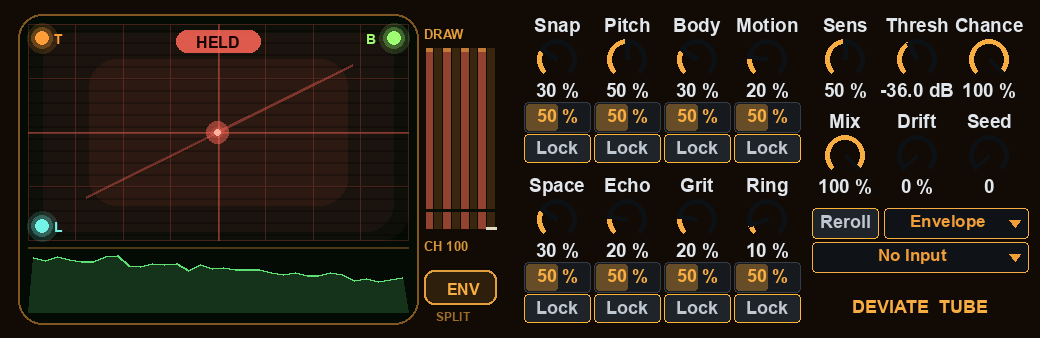
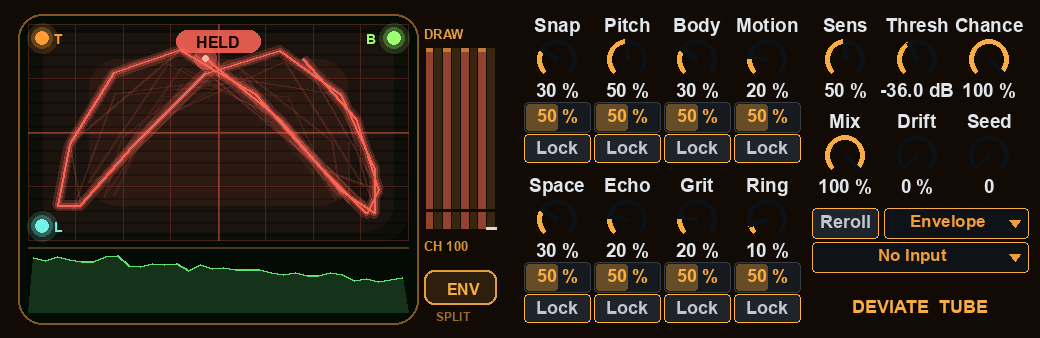
fix(deviate): tube review findings

Changed region(s): [[0.0308, 0.1183, 0.3692, 0.6509]]

diff --git a/src/deviate_face_tube.js b/src/deviate_face_tube.js
@@ -15,7 +15,10 @@ var TB_BAR = { x: 207, pitch: 4.4, w: 3.4, y: 20, h: 90 };
 var PAINT_REGIONS = [[0, 0, 246, 161]];
 var hitZones = [[0, 0, 246, 161]];
 
-var tbFlash = 0;
+var tbFlash = 0; // flash level set at tbFlashAt (ms); read through tbFlashNow(), which decays on the clock, not on telemetry frames
+var tbFlashAt = 0;
+var tbClock = null; // pinned clock (ms) for previews and tests; null = Date.now()
+var TB_FLASH_MS = 300;
 var tbHist = []; // previous frames' points (flat [x, y, ...], normalized -1..1), oldest first, at most 5
 var TB_PERSIST = 5;
 
@@ -52,15 +55,28 @@ function tbPush() {
     if (tbHist.length > TB_PERSIST) tbHist.shift();
 }
 
+function tbNow() {
+    return tbClock === null ? Date.now() : tbClock;
+}
+
+function tbSetFlash(v) {
+    tbFlash = v; tbFlashAt = tbNow();
+}
+
+/** the flash level now: linear fade to 0 over TB_FLASH_MS, whatever the telemetry does */
+function tbFlashNow() {
+    return Math.max(0, tbFlash * (1 - (tbNow() - tbFlashAt) / TB_FLASH_MS));
+}
+
 function onFrame(t) {
-    if (t.hitNew) tbFlash = 1;
-    else tbFlash = Math.max(0, tbFlash - 0.18);
+    if (t.hitNew) tbSetFlash(1);
     tbPush();
     return true;
 }
 
 function onclick() {
-    tbFlash = Math.max(tbFlash, 0.6);
+    tbSetFlash(Math.max(tbFlashNow(), 0.6));
+    dvAnimate(TB_FLASH_MS + 40);
     dvManualHit();
     mgraphics.redraw();
 }
@@ -68,9 +84,18 @@ function onclick() {
 function preview() {
     var st = dvPreviewBase();
     tbHist = [];
-    var head = Math.round(dvNum(dvTel.waveHead)), n = tbBlocks();
-    for (var j = TB_PERSIST; j >= 1; j--) tbHist.push(tbPoints(n, head - 2 * j));
-    tbFlash = st.kind === "hit" || st.kind === "extreme" ? 1 : 0;
+    var n = tbBlocks(), amp = st.kind === "idle" ? 0.05 : st.kind === "extreme" ? 0.95 : 0.7;
+    tbClock = 1000; // pinned: previews never read Date.now
+    // varied synthetic portraits (a drifting Lissajous per frame, smaller and phase-shifted for older frames) so the trails separate
+    for (var j = TB_PERSIST; j >= 1; j--) {
+        var pts = [], ph = 0.55 * j, k;
+        for (k = 0; k < 2 * n; k++) {
+            var u = k / (2 * n) * 6.283 * 1.5 + ph;
+            pts.push(amp * Math.sin(u) * (1 - 0.08 * j), amp * 0.9 * Math.sin(2 * u + 0.8 + 0.25 * ph) * (1 - 0.05 * j));
+        }
+        tbHist.push(pts);
+    }
+    tbFlash = st.kind === "hit" || st.kind === "extreme" ? 1 : 0; tbFlashAt = 1000;
 }
 
 // ---- drawing ----------------------------------------------------------------------------------------------------------------------
@@ -105,7 +130,7 @@ function paint() {
     var P = TB_PORT, cx = P[0] + P[2] / 2, cy = P[1] + P[3] / 2;
     var sx = P[2] / 2 - 3, sy = P[3] / 2 - 3;
     var age = dvTel.ageMs >= 0 ? Math.exp(-dvTel.ageMs / 110) : 0;
-    var bloom = dvClamp(Math.max(tbFlash, age), 0, 1);
+    var bloom = dvClamp(Math.max(tbFlashNow(), age), 0, 1);
     var ringEnv = dvClamp(dvTel.ringEnv, 0, 1), ring = dvClamp(dvTel.ring, 0, 1);
 
     // glass

diff --git a/tests/test_deviate_face_tube.js b/tests/test_deviate_face_tube.js
@@ -57,6 +57,18 @@ R.ok(stream({ kind: "hit" }, null) !== stream({ kind: "hit", gate: 0 }), "gate 0
 R.ok(stream({ kind: "hit" }) !== stream({ kind: "hit", spectral: true }), "ENV vs SPEC differ");
 const lampOnly = (k) => stream({ kind: "ring" }, (s) => { s[k] = 0.9; }) !== stream({ kind: "ring" }, (s) => { s[k] = 0.05; });
 R.ok(lampOnly(S.PK_T) && lampOnly(S.PK_B) && lampOnly(S.PK_L), "T, B and L lamps each move pixels");
+{
+    // regression: a click flash must fade on the clock even when no telemetry frame arrives (sleeping / frozen gen)
+    const f = boot(); frame(f, { kind: "idle" });
+    F.call(f, "onclick", [10, 10]);
+    const lit = f.sandbox.tbFlashNow();
+    R.ok(lit >= 0.5, "click lights the flash (" + lit.toFixed(2) + ")");
+    f.state.clock += 150;
+    const mid = f.sandbox.tbFlashNow();
+    R.ok(mid > 0 && mid < lit, "flash is fading at 150 ms with no onFrame");
+    f.state.clock += 200;
+    R.ok(f.sandbox.tbFlashNow() < 0.01, "flash is gone 350 ms after the click with no onFrame");
+}
 R.ok(/DRAW/.test(hit) && /ENV|SPEC/.test(hit), "DRAW and ENV labels painted");
 const calls = hit.split("|").length;
 console.log("hit paint calls", calls);
